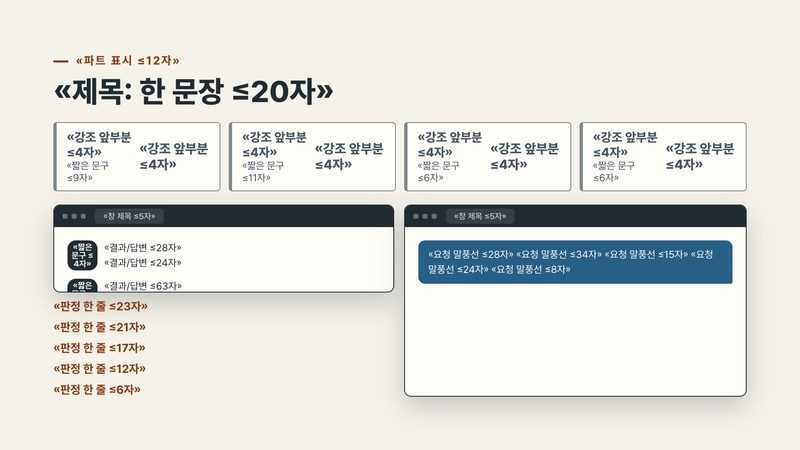
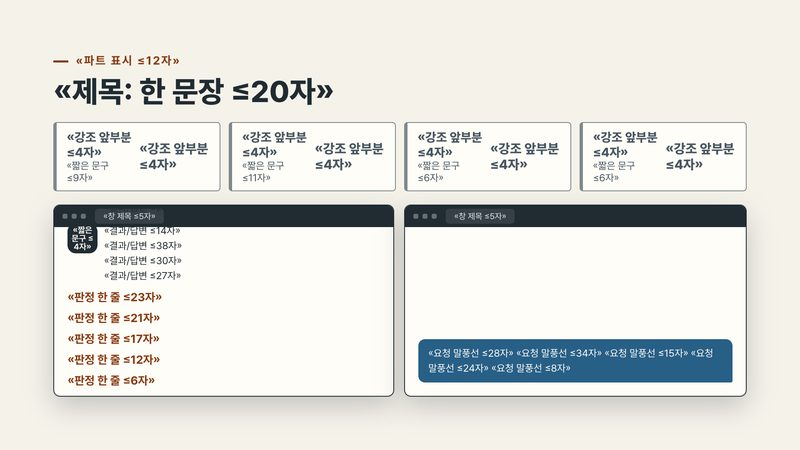
스니펫 시각 결함 6건 수정(사용자 QA): agenda-2 겹침 해소·mechanism-2 동심+아크 대칭·levels 피라미드 빗변 정렬·build-up 양창 평준+내용 잘림 0·한도 실측 갱신 — 썸네일 253 재촬영

Changed region(s): [[0.0625, 0.4978, 0.9375, 0.9333], [0.5, 0.5289, 0.9375, 0.6533]]

diff --git a/edu-deck/shared/assets/snippets/18-build-up.html b/edu-deck/shared/assets/snippets/18-build-up.html
@@ -18,24 +18,25 @@
     <div class="col f1" style="gap:16px">
       <div class="win f1">
         <div class="win-bar"><i></i><i></i><i></i><span class="wt">«창 제목 ≤5자»</span></div>
-        <div class="win-body"><div class="main"><div class="msgs">
-          <div class="a" data-only="0"><span class="av">«짧은 문구 ≤4자»</span><div class="at"><p>«결과/답변 ≤28자»<br>«결과/답변 ≤24자»</p></div></div>
-          <div class="a" data-only="1"><span class="av">«짧은 문구 ≤4자»</span><div class="at"><p>«결과/답변 ≤63자»</p></div></div>
-          <div class="a" data-only="2"><span class="av">«짧은 문구 ≤4자»</span><div class="at"><p>«결과/답변 ≤218자»</p></div></div>
-          <div class="a" data-only="3"><span class="av">«짧은 문구 ≤4자»</span><div class="at"><p>«결과/답변 ≤14자»<br>«결과/답변 ≤38자»<br>«결과/답변 ≤29자»</p></div></div>
-          <div class="a" data-only="4"><span class="av">«짧은 문구 ≤4자»</span><div class="at"><p>«결과/답변 ≤14자»<br>«결과/답변 ≤38자»<br>«결과/답변 ≤30자»<br>«결과/답변 ≤27자»</p></div></div>
-        </div></div></div>
+        <div class="win-body"><div class="main" style="padding:20px 32px;gap:16px"><div class="msgs" style="flex:1;min-height:0">
+          <div class="a" data-only="0"><span class="av">«짧은 문구 ≤4자»</span><div class="at" style="word-break:break-all"><p>«결과/답변 ≤28자»<br>«결과/답변 ≤24자»</p></div></div>
+          <div class="a" data-only="1"><span class="av">«짧은 문구 ≤4자»</span><div class="at" style="word-break:break-all"><p>«결과/답변 ≤63자»</p></div></div>
+          <div class="a" data-only="2"><span class="av">«짧은 문구 ≤4자»</span><div class="at" style="word-break:break-all"><p>«결과/답변 ≤190자»</p></div></div>
+          <div class="a" data-only="3"><span class="av">«짧은 문구 ≤4자»</span><div class="at" style="word-break:break-all"><p>«결과/답변 ≤14자»<br>«결과/답변 ≤38자»<br>«결과/답변 ≤29자»</p></div></div>
+          <div class="a" data-only="4"><span class="av">«짧은 문구 ≤4자»</span><div class="at" style="word-break:break-all"><p>«결과/답변 ≤14자»<br>«결과/답변 ≤38자»<br>«결과/답변 ≤30자»<br>«결과/답변 ≤27자»</p></div></div>
+        </div>
+        <p class="verdict" data-only="0">«판정 한 줄 ≤23자»</p>
+        <p class="verdict" data-only="1">«판정 한 줄 ≤21자»</p>
+        <p class="verdict" data-only="2">«판정 한 줄 ≤17자»</p>
+        <p class="verdict" data-only="3">«판정 한 줄 ≤12자»</p>
+        <p class="verdict" data-only="4">«판정 한 줄 ≤6자»</p>
+        </div></div>
       </div>
-      <p class="verdict" data-only="0">«판정 한 줄 ≤23자»</p>
-      <p class="verdict" data-only="1">«판정 한 줄 ≤21자»</p>
-      <p class="verdict" data-only="2">«판정 한 줄 ≤17자»</p>
-      <p class="verdict" data-only="3">«판정 한 줄 ≤12자»</p>
-      <p class="verdict" data-only="4">«판정 한 줄 ≤6자»</p>
     </div>
     <div class="win f1">
       <div class="win-bar"><i></i><i></i><i></i><span class="wt">«창 제목 ≤5자»</span></div>
-      <div class="win-body"><div class="main"><div class="msgs">
-        <div class="u" style="max-width:100%"><span class="add" data-add="1">«요청 말풍선 ≤28자» </span><span class="add" data-add="2">«요청 말풍선 ≤34자» </span><span class="add" data-add="3">«요청 말풍선 ≤15자» </span><span class="add" data-add="4">«요청 말풍선 ≤24자» </span><span>«요청 말풍선 ≤8자»</span></div>
+      <div class="win-body"><div class="main"><div class="msgs" style="flex:1;min-height:0">
+        <div class="u" style="max-width:100%;word-break:break-all"><span class="add" data-add="1">«요청 말풍선 ≤28자» </span><span class="add" data-add="2">«요청 말풍선 ≤34자» </span><span class="add" data-add="3">«요청 말풍선 ≤15자» </span><span class="add" data-add="4">«요청 말풍선 ≤24자» </span><span>«요청 말풍선 ≤8자»</span></div>
       </div></div></div>
     </div>
   </div>
@@ -46,11 +47,11 @@
   <div class="head"><p class="eyebrow">«파트 표시 ≤12자»</p><h2 class="title">«제목: 한 문장 ≤20자»</h2></div>
   <div class="row" style="flex:1;min-height:0;gap:48px;align-items:center">
     <svg class="dg" viewBox="0 0 900 560" style="flex:1.3;min-width:0" aria-label="«그림 설명»">
-      <g data-step="1"><path d="M120 460H780L820 540H80Z" fill="var(--paper)" stroke="var(--ink)" stroke-width="2.5"/><text class="t-l" text-anchor="middle" x="450" y="514">«기반 층 ≤10자»</text></g>
-      <g data-step="2"><path d="M160 370H740L780 452H120Z" fill="var(--paper)" stroke="var(--blue)" stroke-width="2.5"/><text class="t-l b" text-anchor="middle" x="450" y="424">«쌓인 층 ≤10자»</text></g>
-      <g data-step="3"><path d="M200 280H700L740 362H160Z" fill="var(--paper)" stroke="var(--blue)" stroke-width="2.5"/><text class="t-l b" text-anchor="middle" x="450" y="334">«쌓인 층 ≤10자»</text></g>
-      <g data-step="4"><path d="M240 190H660L700 272H200Z" fill="var(--accent-light)" stroke="var(--accent)" stroke-width="2.5"/><text class="t-l o" text-anchor="middle" x="450" y="244">«쌓인 층 ≤10자»</text></g>
-      <g data-step="5"><path d="M450 70L540 182H360Z" fill="var(--accent)"/><use href="#i-flag" x="426" y="96" width="48" height="48" style="color:var(--paper)"/><text class="t-l o" text-anchor="middle" x="450" y="40">«≤8자»</text></g>
+      <g data-step="1"><path d="M143 460H757L820 540H80Z" fill="var(--paper)" stroke="var(--ink)" stroke-width="2.5"/><text class="t-l" text-anchor="middle" x="450" y="514">«기반 층 ≤10자»</text></g>
+      <g data-step="2"><path d="M214 370H686L751 452H149Z" fill="var(--paper)" stroke="var(--blue)" stroke-width="2.5"/><text class="t-l b" text-anchor="middle" x="450" y="424">«쌓인 층 ≤10자»</text></g>
+      <g data-step="3"><path d="M285 280H615L680 362H220Z" fill="var(--paper)" stroke="var(--blue)" stroke-width="2.5"/><text class="t-l b" text-anchor="middle" x="450" y="334">«쌓인 층 ≤10자»</text></g>
+      <g data-step="4"><path d="M356 190H544L609 272H291Z" fill="var(--accent-light)" stroke="var(--accent)" stroke-width="2.5"/><text class="t-l o" text-anchor="middle" x="450" y="244">«쌓인 층 ≤10자»</text></g>
+      <g data-step="5"><path d="M450 70L538 182H362Z" fill="var(--accent)"/><use href="#i-flag" x="426" y="96" width="48" height="48" style="color:var(--paper)"/><text class="t-l o" text-anchor="middle" x="450" y="40">«≤8자»</text></g>
     </svg>
     <div class="col" style="width:520px;flex:none;gap:16px">
       <p class="label">«라벨 ≤16자»</p>

diff --git a/edu-deck/shared/assets/snippets/02-agenda.html b/edu-deck/shared/assets/snippets/02-agenda.html
@@ -55,24 +55,24 @@
       <circle cx="28" cy="24" r="12" fill="var(--accent)"/><circle cx="28" cy="616" r="12" fill="var(--paper)" stroke="var(--line)" stroke-width="4"/>
     </svg>
     <div class="col" style="flex:1;min-width:0;justify-content:space-between;gap:20px">
-      <div class="rm-col" data-fx="row-mask-rise" data-step="1" style="flex-direction:row;align-items:center;text-align:left;gap:24px;background:var(--blue-soft);border-radius:var(--r3);padding:18px 28px">
+      <div class="rm-col" data-fx="row-mask-rise" data-step="1" style="flex-direction:row;align-items:center;text-align:left;gap:24px;background:var(--blue-soft);border-radius:var(--r3);padding:12px 28px">
         <p class="rm-num" style="color:var(--blue);margin-top:0;min-width:76px">01</p>
-        <div class="rm-node" style="--c:var(--blue);width:96px;height:96px;border-radius:24px;flex:none"><svg viewBox="0 0 100 100" aria-hidden="true"><use href="#i-book" width="88" height="88" x="6" y="6" style="color:var(--blue)"/></svg></div>
+        <div class="rm-node" style="--c:var(--blue);width:80px;height:80px;border-radius:20px;flex:none"><svg viewBox="0 0 100 100" aria-hidden="true"><use href="#i-book" width="88" height="88" x="6" y="6" style="color:var(--blue)"/></svg></div>
         <div><h3 class="rm-h" style="font-size:34px">«파트 이름 ≤9자»</h3><p class="rm-q">«학습자 질문 ≤26자»</p></div>
       </div>
-      <div class="rm-col" data-fx="row-mask-rise" data-step="2" style="flex-direction:row;align-items:center;text-align:left;gap:24px;border:2px solid var(--line);border-radius:var(--r3);padding:18px 28px">
+      <div class="rm-col" data-fx="row-mask-rise" data-step="2" style="flex-direction:row;align-items:center;text-align:left;gap:24px;border:2px solid var(--line);border-radius:var(--r3);padding:12px 28px">
         <p class="rm-num" style="color:var(--blue);margin-top:0;min-width:76px">02</p>
-        <div class="rm-node" style="--c:var(--blue);width:96px;height:96px;border-radius:24px;flex:none"><svg viewBox="0 0 100 100" aria-hidden="true"><use href="#i-search" width="88" height="88" x="6" y="6" style="color:var(--blue)"/></svg></div>
+        <div class="rm-node" style="--c:var(--blue);width:80px;height:80px;border-radius:20px;flex:none"><svg viewBox="0 0 100 100" aria-hidden="true"><use href="#i-search" width="88" height="88" x="6" y="6" style="color:var(--blue)"/></svg></div>
         <div><h3 class="rm-h" style="font-size:34px">«파트 이름 ≤10자»</h3><p class="rm-q">«학습자 질문 ≤27자»</p></div>
       </div>
-      <div class="rm-col" data-fx="row-mask-rise" data-step="3" style="flex-direction:row;align-items:center;text-align:left;gap:24px;background:var(--chip);border-radius:var(--r3);padding:18px 28px">
+      <div class="rm-col" data-fx="row-mask-rise" data-step="3" style="flex-direction:row;align-items:center;text-align:left;gap:24px;background:var(--chip);border-radius:var(--r3);padding:12px 28px">
         <p class="rm-num" style="color:var(--accent);margin-top:0;min-width:76px">03</p>
-        <div class="rm-node" style="--c:var(--accent);width:96px;height:96px;border-radius:24px;flex:none"><svg viewBox="0 0 100 100" aria-hidden="true"><use href="#i-tool" width="88" height="88" x="6" y="6" style="color:var(--accent)"/></svg></div>
+        <div class="rm-node" style="--c:var(--accent);width:80px;height:80px;border-radius:20px;flex:none"><svg viewBox="0 0 100 100" aria-hidden="true"><use href="#i-tool" width="88" height="88" x="6" y="6" style="color:var(--accent)"/></svg></div>
         <div><h3 class="rm-h" style="font-size:34px">«파트 이름 ≤8자»</h3><p class="rm-q">«학습자 질문 ≤26자»</p></div>
       </div>
-      <div class="rm-col" data-fx="row-mask-rise" data-step="4" style="flex-direction:row;align-items:center;text-align:left;gap:24px;background:var(--accent);border-radius:var(--r3);padding:18px 28px">
+      <div class="rm-col" data-fx="row-mask-rise" data-step="4" style="flex-direction:row;align-items:center;text-align:left;gap:24px;background:var(--accent);border-radius:var(--r3);padding:12px 28px">
         <p class="rm-num" style="color:var(--paper);margin-top:0;min-width:76px">04</p>
-        <div class="rm-node" style="--c:var(--paper);width:96px;height:96px;border-radius:24px;flex:none"><svg viewBox="0 0 100 100" aria-hidden="true"><use href="#i-trophy" width="88" height="88" x="6" y="6" style="color:var(--accent-text)"/></svg></div>
+        <div class="rm-node" style="--c:var(--paper);width:80px;height:80px;border-radius:20px;flex:none"><svg viewBox="0 0 100 100" aria-hidden="true"><use href="#i-trophy" width="88" height="88" x="6" y="6" style="color:var(--accent-text)"/></svg></div>
         <div><h3 class="rm-h" style="font-size:34px;color:var(--paper)">«파트 이름 ≤9자»</h3><p class="rm-q" style="color:var(--paper)">«학습자 질문 ≤24자»</p></div>
       </div>
     </div>

diff --git a/edu-deck/shared/assets/snippets/05-mechanism.html b/edu-deck/shared/assets/snippets/05-mechanism.html
@@ -36,22 +36,22 @@
 <section class="slide" data-archetype="mechanism" data-variant="loop" style="gap:32px">
 <div class="head"><p class="eyebrow">«파트 표시 ≤18자»</p><h2 class="title">«제목: 한 문장 ≤24자»</h2></div>
 <svg class="dg" viewBox="0 0 1600 560" aria-label="«그림 설명»">
-  <circle cx="760" cy="280" r="250" fill="none" stroke="var(--accent-light)" stroke-width="26" opacity=".4"/>
+  <circle cx="800" cy="240" r="220" fill="none" stroke="var(--accent-light)" stroke-width="26" opacity=".4"/>
   <path class="dash-flow" d="M520 150C700 110 900 110 1080 150" fill="none" marker-end="url(#ah)" stroke="var(--accent)" stroke-width="3"/>
-  <path class="dash-flow" d="M1180 280C1120 400 980 460 850 460" fill="none" marker-end="url(#ah)" stroke="var(--accent)" stroke-width="3"/>
-  <path class="dash-flow" d="M700 460C560 440 460 370 430 260" fill="none" marker-end="url(#ahb)" stroke="var(--blue)" stroke-width="3"/>
+  <path class="dash-flow" d="M1180 272C1148 308 1116 324 1084 328" fill="none" marker-end="url(#ah)" stroke="var(--accent)" stroke-width="3"/>
+  <path class="dash-flow" d="M515 330C482 328 452 312 440 296" fill="none" marker-end="url(#ahb)" stroke="var(--blue)" stroke-width="3"/>
   <path class="dash-flow" d="M430 240C440 210 460 180 490 160" fill="none" marker-end="url(#ah)" stroke="var(--accent)" stroke-width="3"/>
   <text class="t-s o" text-anchor="middle" x="800" y="120">«진행 화살 ≤8자»</text>
-  <text class="t-s b" text-anchor="middle" x="540" y="430">«환류 화살 ≤8자»</text>
+  <text class="t-s b" text-anchor="middle" x="540" y="385">«환류 화살 ≤8자»</text>
   <g data-step="1">
     <circle cx="380" cy="240" r="92" fill="var(--paper)" stroke="var(--blue)" stroke-width="2.5"/>
     <use href="#i-send" x="334" y="194" width="92" height="92" style="color:var(--blue)"/>
     <text class="t-l" text-anchor="middle" x="380" y="378">«입력 ≤5자»</text>
   </g>
   <g data-step="2">
-    <circle cx="800" cy="230" r="110" fill="var(--paper)" stroke="var(--ink)" stroke-width="2.5"/>
-    <use href="#i-gear" x="742" y="172" width="116" height="116" style="color:var(--ink)"/>
-    <text class="t-l" text-anchor="middle" x="800" y="384">«처리 ≤5자»</text>
+    <circle cx="800" cy="240" r="110" fill="var(--paper)" stroke="var(--ink)" stroke-width="2.5"/>
+    <use href="#i-gear" x="742" y="182" width="116" height="116" style="color:var(--ink)"/>
+    <text class="t-l" text-anchor="middle" x="800" y="378">«처리 ≤5자»</text>
   </g>
   <g data-step="3">
     <circle cx="1220" cy="240" r="92" fill="var(--paper)" stroke="var(--accent)" stroke-width="2.5"/>
@@ -59,9 +59,9 @@
     <text class="t-l" text-anchor="middle" x="1220" y="378">«출력 ≤5자»</text>
   </g>
   <g data-step="4">
-    <path class="dash-flow" d="M1160 330C1000 520 620 520 450 340" fill="none" marker-end="url(#ahb)" stroke="var(--blue)" stroke-width="2.5"/>
-    <rect x="700" y="490" width="200" height="54" rx="27" fill="var(--blue)"/>
-    <text class="t-badge" text-anchor="middle" x="800" y="525">«환류 ≤6자»</text>
+    <path class="dash-flow" d="M1080 330C900 370 700 370 520 330" fill="none" marker-end="url(#ahb)" stroke="var(--blue)" stroke-width="2.5"/>
+    <rect x="700" y="340" width="200" height="54" rx="27" fill="var(--blue)"/>
+    <text class="t-badge" text-anchor="middle" x="800" y="375">«환류 ≤6자»</text>
   </g>
 </svg>
 <aside class="notes">«발표자 노트 110~450자: 화면 설명 → 진행 지시(→ 누를 때마다…) → 화면에 없는 보충 사실과 출처 → 다음 장 연결»</aside>

diff --git a/edu-deck/shared/assets/snippets/11-levels.html b/edu-deck/shared/assets/snippets/11-levels.html
@@ -57,10 +57,10 @@
       <div class="callout" data-step="6" style="font-size:26px;padding:20px 28px"><b>«강조 ≤12자»</b> «정리 문장 ≤32자»</div>
     </div>
     <svg class="dg" viewBox="0 0 1200 560" style="flex:1.4;min-width:0" aria-label="«그림 설명»">
-      <g data-step="4"><path d="M550 60L695 180H405Z" fill="var(--accent-light)" stroke="var(--accent)" stroke-width="2.5"/><text class="t-l o" text-anchor="middle" x="550" y="148">«≤6자»</text></g>
-      <g data-step="3"><path d="M405 190H695L800 310H300Z" fill="var(--blue-soft)" opacity=".85" stroke="var(--blue)" stroke-width="2.5"/><text class="t-l b" text-anchor="middle" x="550" y="268">«≤8자»</text></g>
-      <g data-step="2"><path d="M300 320H800L900 440H200Z" fill="var(--blue-soft)" opacity=".5" stroke="var(--blue)" stroke-width="2.5"/><text class="t-l b" text-anchor="middle" x="550" y="398">«≤8자»</text></g>
-      <g data-step="1"><path d="M200 450H900L970 550H130Z" fill="var(--accent-light)" opacity=".45" stroke="var(--ink)" stroke-width="2.5"/><text class="t-l" text-anchor="middle" x="550" y="518">«≤10자»</text></g>
+      <g data-step="4"><path d="M550 60L660 180H440Z" fill="var(--accent-light)" stroke="var(--accent)" stroke-width="2.5"/><text class="t-l o" text-anchor="middle" x="550" y="148">«≤6자»</text></g>
+      <g data-step="3"><path d="M431 190H669L780 310H320Z" fill="var(--blue-soft)" opacity=".85" stroke="var(--blue)" stroke-width="2.5"/><text class="t-l b" text-anchor="middle" x="550" y="268">«≤8자»</text></g>
+      <g data-step="2"><path d="M311 320H689L899 440H201Z" fill="var(--blue-soft)" opacity=".5" stroke="var(--blue)" stroke-width="2.5"/><text class="t-l b" text-anchor="middle" x="550" y="398">«≤8자»</text></g>
+      <g data-step="1"><path d="M192 450H808L900 550H100Z" fill="var(--accent-light)" opacity=".45" stroke="var(--ink)" stroke-width="2.5"/><text class="t-l" text-anchor="middle" x="550" y="518">«≤10자»</text></g>
       <path d="M980 130V540" stroke="var(--muted)" stroke-width="2" stroke-dasharray="4 8" fill="none"/>
       <text class="t-s" x="1000" y="160">«층 ≤8자»</text>
       <text class="t-s" x="1000" y="290">«층 ≤8자»</text>
@@ -129,11 +129,11 @@
     </div>
     <figure class="fig-slot" data-step="4">
       <svg class="dg" viewBox="0 0 720 560" role="img" aria-label="«그림 설명: 수준이 쌓인 피라미드»">
-        <polygon class="k-solid-o" points="360,40 480,180 240,180"/>
+        <polygon class="k-solid-o" points="360,40 445,180 275,180"/>
         <text class="t-l k-t-w" text-anchor="middle" x="360" y="145">«꼭짓점 ≤5자»</text>
-        <polygon class="k-solid-b" points="228,196 492,196 560,340 160,340"/>
+        <polygon class="k-solid-b" points="265,196 455,196 543,340 177,340"/>
         <text class="t-l k-t-w" text-anchor="middle" x="360" y="290">«중간 ≤5자»</text>
-        <polygon class="k-gray" points="148,356 572,356 640,500 80,500"/>
+        <polygon class="k-gray" points="168,356 552,356 640,500 80,500"/>
         <text class="t-l" text-anchor="middle" x="360" y="450">«바탕 ≤5자»</text>
         <path class="k-ln-g" d="M676 480V96" marker-end="url(#ahk)"/>
         <text class="t-s" text-anchor="end" x="712" y="72">«오름 ≤4자»</text>
